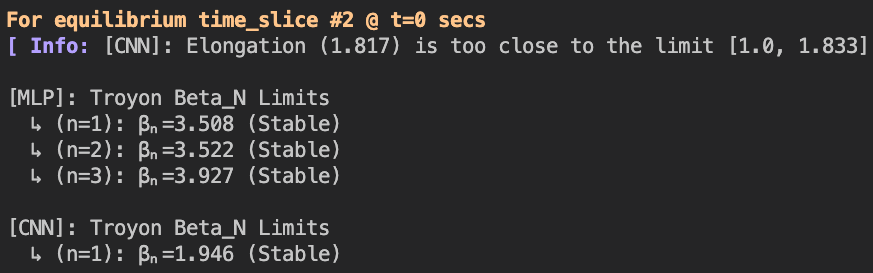
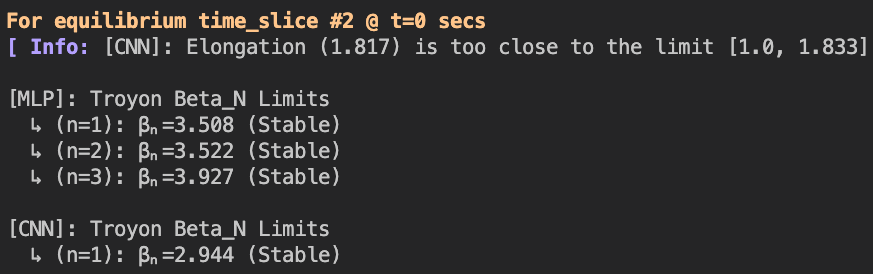
(IMPORTANT): sawp input 4&5 for CNN model (need to check)

diff --git a/README.md b/README.md
@@ -76,7 +76,7 @@ This will give the following verbose terminal output and write figure file of sa
 <br />
 
 
-Sample points for a FPP equilibrium:
+Sample points for a DIII-D equilibrium:
 <br />
 <div align="center">
     <img src="assets/Troyon_Sample_Points.png" width=70%>
